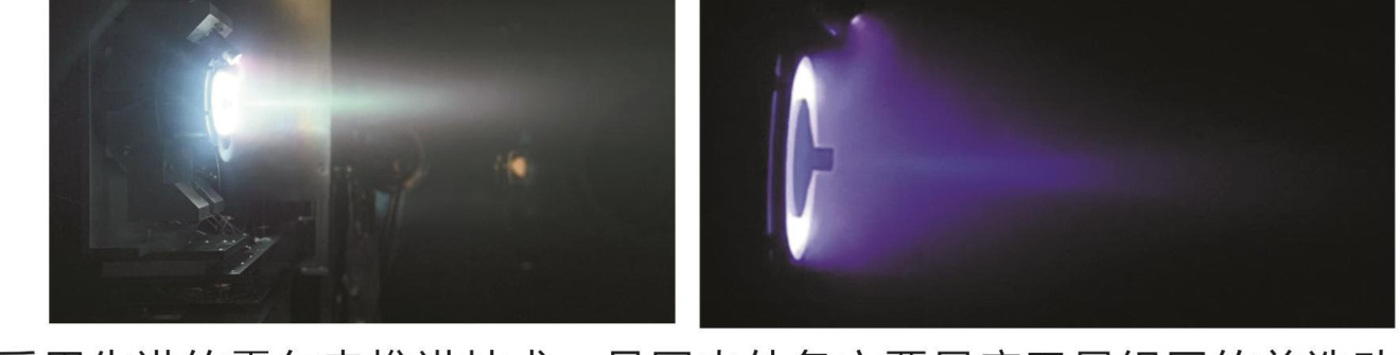
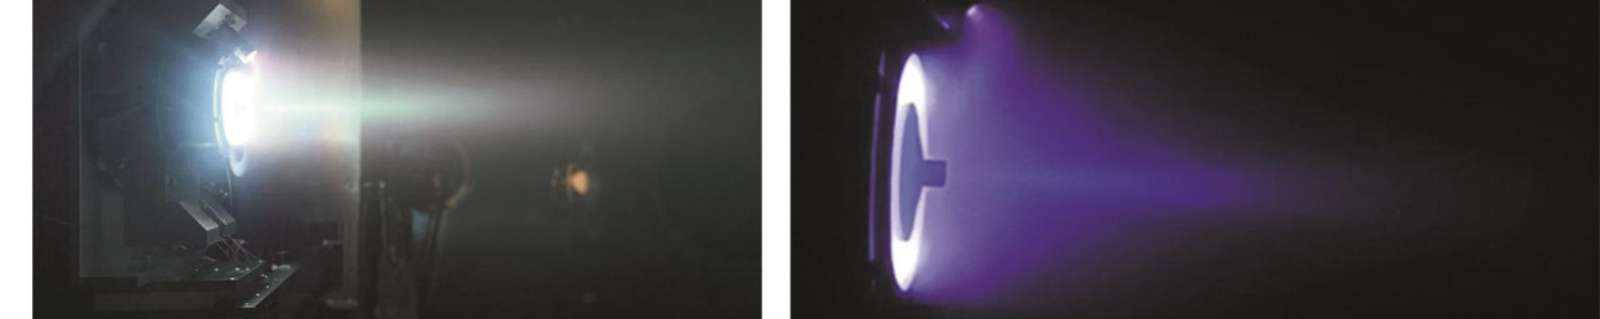
Align Hall thruster lab imagery

diff --git a/styles.css b/styles.css
@@ -722,7 +722,7 @@ h3 {
 
 .lab-grid {
   display: grid;
-  grid-template-columns: minmax(0, 1.05fr) minmax(0, 0.95fr);
+  grid-template-columns: minmax(320px, 0.95fr) minmax(0, 1.55fr);
   gap: clamp(24px, 4vw, 48px);
   align-items: end;
 }
@@ -731,24 +731,26 @@ h3 {
   margin: 0;
 }
 
+.lab-grid figure > img {
+  height: clamp(360px, 34vw, 520px);
+}
+
 .lab-grid img {
   display: block;
   width: 100%;
-  height: 100%;
-  min-height: 360px;
   object-fit: cover;
   background: #05080d;
   filter: contrast(1.04) saturate(0.92);
 }
 
 .lab-grid figure:first-child img {
-  aspect-ratio: 1.25 / 1;
+  object-fit: contain;
   object-position: center;
 }
 
 .lab-grid figure:last-child img {
-  aspect-ratio: 1.45 / 1;
-  object-position: 50% 42%;
+  object-fit: contain;
+  object-position: center;
 }
 
 .engineering-service-grid {
